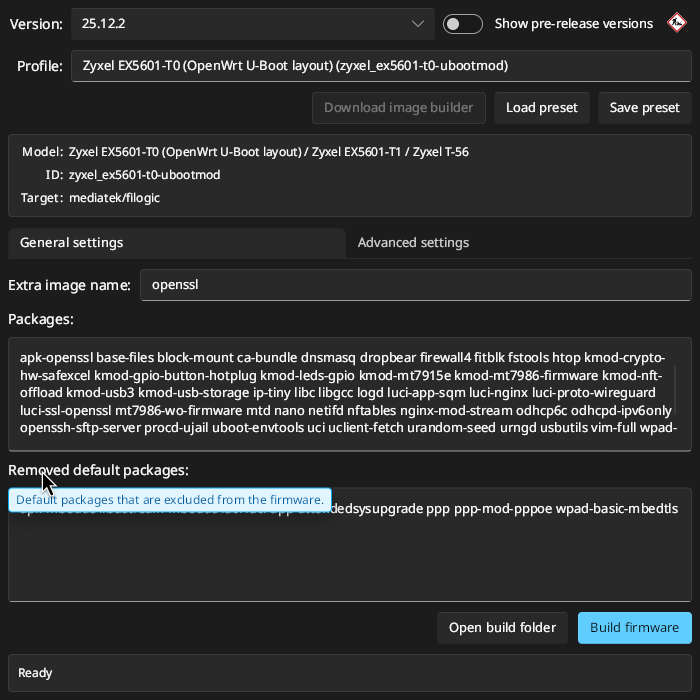
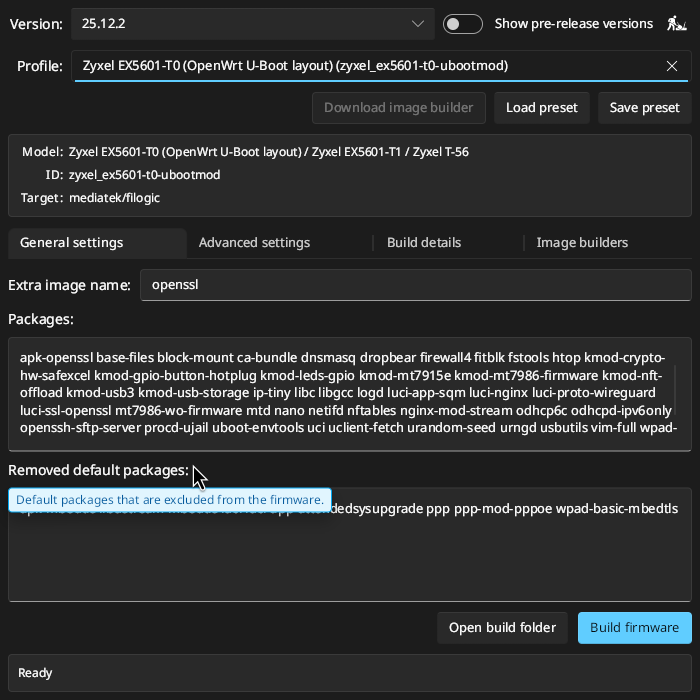
docs: update README
Describe the new Image builder tab.

Describe Windows Podman and Docker VM space requirements.

Add updated screenshot showing the new Build details and Image builder
tabs.

diff --git a/README.md b/README.md
@@ -20,6 +20,8 @@ Bouwer means builder in Dutch.
   settings for newer OpenWrt versions.
 - Caches OpenWrt profile metadata, packages, and image builders to speed up
   subsequent operations.
+- Manages downloaded image builders and allows removing them from within the
+  app.
 - Supports OpenWrt version 21.02 and above, including release candidates.
 
 ## Requirements
@@ -34,7 +36,8 @@ Additionally, on Linux, Docker must be accessible _without_ super user
 privileges, by e.g. adding your user to the `docker` group.
 
 1 to 3 gigabytes of free disk space for each target and free disk space for the
-firmware images.
+firmware images. On Windows, image builder images are stored as part of Podman
+or Docker VMs, so you need to account for that when allocating space for them.
 
 Currently, modern Linux and Windows running on x86/64 are supported. macOS on
 aarch64 is doable, but there's no practical way for me to test this at the
@@ -103,6 +106,6 @@ The executable will be located in `target/release/`.
 
 ## License
 
-Copyright (C) 2026 George Sapkin
-
 GNU General Public License v3.0 only
+
+Copyright (C) 2026 George Sapkin
